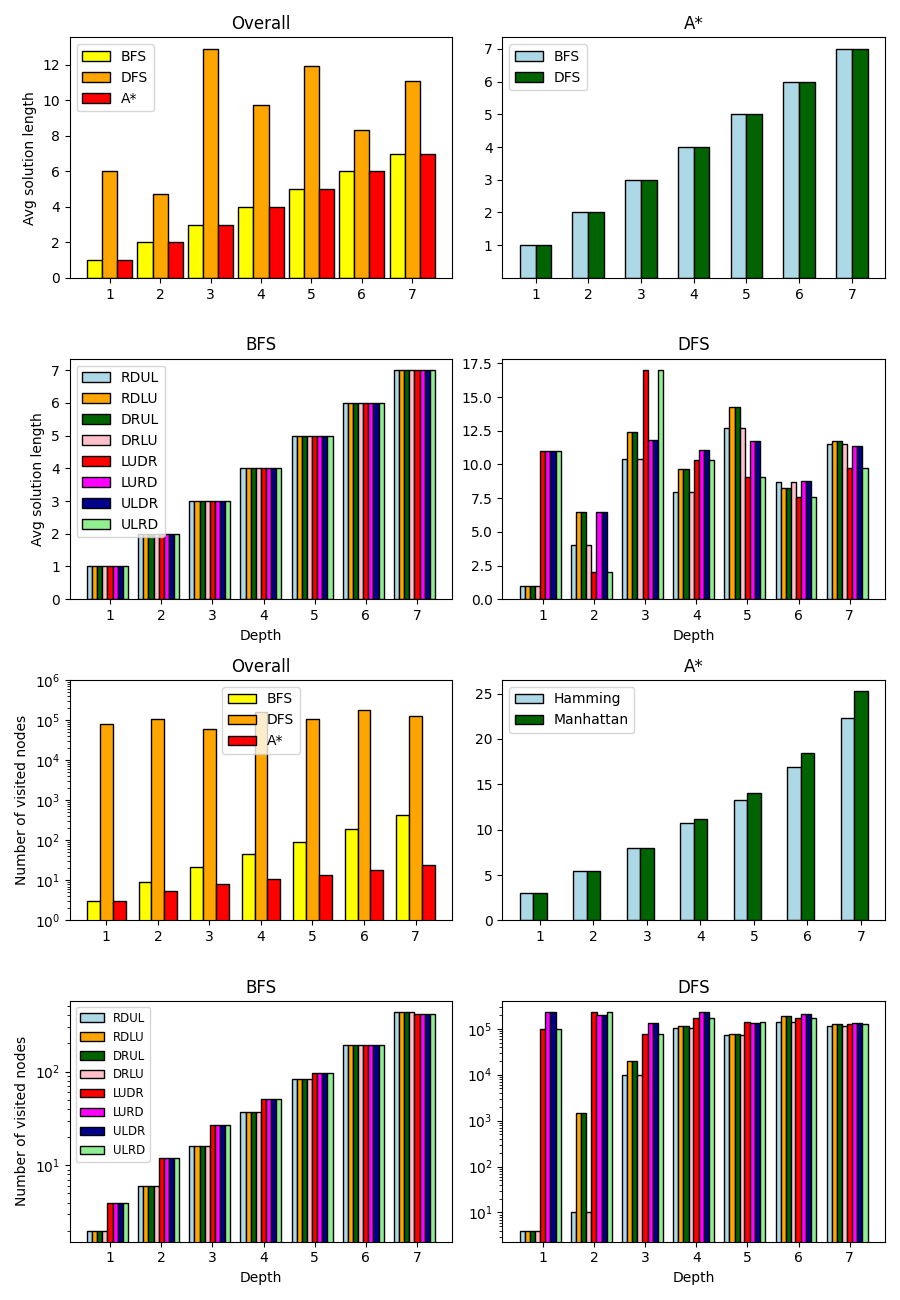
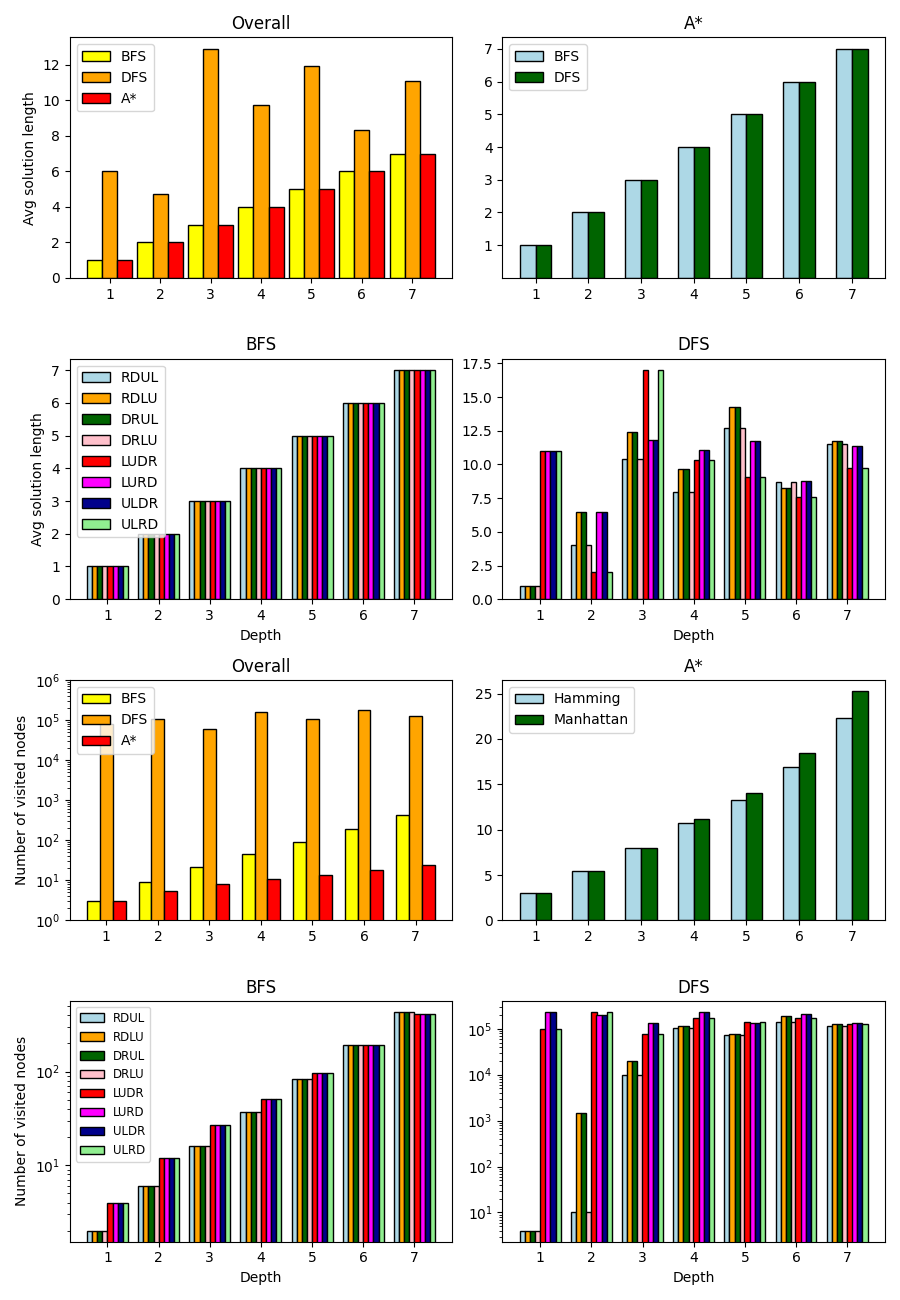
wyrownane, ostatnia strona zmniejszona

Changed region(s): [[0.5911, 0.5231, 0.9644, 0.7077], [0.2489, 0.5231, 0.3422, 0.5846], [0.0933, 0.5231, 0.1867, 0.5846]]

diff --git a/pyton wykresy/main.py b/pyton wykresy/main.py
@@ -6,7 +6,7 @@ from matplotlib import pyplot as plt
 
 
 def stats(name, *strategy):
-    folder_path = 'C:\studia\sise\sise\JAVA\stats'
+    folder_path = 'D:\\SISE\\repo\\JAVA\\stats\\'
     stats_dict = defaultdict(lambda: {'L': [], 'C': [], 'F': [], 'D': [], 'T': []})
     stan = '([a-z]{4})'
     if strategy:
@@ -51,65 +51,66 @@ ax[0, 0].set_xticks(names_axis, names)
 ax[0, 0].set_title("Overall")
 ax[0, 0].legend(["BFS", "DFS", "A*"])
 
-ax[0, 1].bar(names_axis - 0.5*width, stats('astr', 'hamm')[0], width, color='lightblue', edgecolor='black')
-ax[0, 1].bar(names_axis+ 0.5*width, stats('astr', 'manh')[0], width, color='darkgreen' , edgecolor='black')
+ax[0, 1].bar(names_axis - 0.5 * width, stats('astr', 'hamm')[0], width, color='lightblue', edgecolor='black')
+ax[0, 1].bar(names_axis + 0.5 * width, stats('astr', 'manh')[0], width, color='darkgreen' , edgecolor='black')
 ax[0, 1].set_title("A*")
 ax[0, 1].set_xticks(names_axis, names)
 ax[0, 1].set_yticks([1, 2, 3, 4, 5, 6, 7])
 ax[0, 1].legend(["BFS", "DFS", "A*"])
 
 width = 0.10
-ax[1, 0].bar(names_axis - 4 * width, stats('bfs', 'rdul')[0], width, color='lightblue', edgecolor='black')
-ax[1, 0].bar(names_axis - 3 * width, stats('bfs', 'rdlu')[0], width, color='orange', edgecolor='black')
-ax[1, 0].bar(names_axis - 2 * width, stats('bfs', 'drul')[0], width, color='darkgreen', edgecolor='black')
-ax[1, 0].bar(names_axis - width, stats('bfs', 'drlu')[0], width, color='pink', edgecolor='black')
-ax[1, 0].bar(names_axis, stats('bfs', 'ludr')[0], width, color='red', edgecolor='black')
-ax[1, 0].bar(names_axis + width, stats('bfs', 'lurd')[0], width, color='magenta', edgecolor='black')
-ax[1, 0].bar(names_axis + 2 * width, stats('bfs', 'uldr')[0], width, color='darkblue', edgecolor='black')
-ax[1, 0].bar(names_axis + 3 * width, stats('bfs', 'ulrd')[0], width, color='lightgreen', edgecolor='black')
+ax[1, 0].bar(names_axis - 3.5 * width, stats('bfs', 'rdul')[0], width, color='lightblue', edgecolor='black')
+ax[1, 0].bar(names_axis - 2.5 * width, stats('bfs', 'rdlu')[0], width, color='orange', edgecolor='black')
+ax[1, 0].bar(names_axis - 1.5 * width, stats('bfs', 'drul')[0], width, color='darkgreen', edgecolor='black')
+ax[1, 0].bar(names_axis - 0.5 * width, stats('bfs', 'drlu')[0], width, color='pink', edgecolor='black')
+ax[1, 0].bar(names_axis + 0.5 * width, stats('bfs', 'ludr')[0], width, color='red', edgecolor='black')
+ax[1, 0].bar(names_axis + 1.5 * width, stats('bfs', 'lurd')[0], width, color='magenta', edgecolor='black')
+ax[1, 0].bar(names_axis + 2.5 * width, stats('bfs', 'uldr')[0], width, color='darkblue', edgecolor='black')
+ax[1, 0].bar(names_axis + 3.5 * width, stats('bfs', 'ulrd')[0], width, color='lightgreen', edgecolor='black')
 ax[1, 0].set_ylabel("Avg solution length")
 ax[1, 0].set_xticks(names_axis, names)
 ax[1, 0].set_title("BFS")
 ax[1, 0].legend(['RDUL', 'RDLU', 'DRUL', 'DRLU', 'LUDR', 'LURD', 'ULDR', 'ULRD'])
 ax[1, 0].set_xlabel("Depth")
 
-ax[1, 1].bar(names_axis - 4 * width, stats('dfs', 'rdul')[0], width, color='lightblue', edgecolor='black')
-ax[1, 1].bar(names_axis - 3 * width, stats('dfs', 'rdlu')[0], width, color='orange', edgecolor='black')
-ax[1, 1].bar(names_axis - 2 * width, stats('dfs', 'drul')[0], width, color='darkgreen', edgecolor='black')
-ax[1, 1].bar(names_axis - width, stats('dfs', 'drlu')[0], width, color='pink', edgecolor='black')
-ax[1, 1].bar(names_axis, stats('dfs', 'ludr')[0], width, color='red', edgecolor='black')
-ax[1, 1].bar(names_axis + width, stats('dfs', 'lurd')[0], width, color='magenta', edgecolor='black')
-ax[1, 1].bar(names_axis + 2 * width, stats('dfs', 'uldr')[0], width, color='darkblue', edgecolor='black')
-ax[1, 1].bar(names_axis + 3 * width, stats('dfs', 'ulrd')[0], width, color='lightgreen', edgecolor='black')
+ax[1, 1].bar(names_axis - 3.5 * width, stats('dfs', 'rdul')[0], width, color='lightblue', edgecolor='black')
+ax[1, 1].bar(names_axis - 2.5 * width, stats('dfs', 'rdlu')[0], width, color='orange', edgecolor='black')
+ax[1, 1].bar(names_axis - 1.5 * width, stats('dfs', 'drul')[0], width, color='darkgreen', edgecolor='black')
+ax[1, 1].bar(names_axis - 0.5 * width, stats('dfs', 'drlu')[0], width, color='pink', edgecolor='black')
+ax[1, 1].bar(names_axis + 0.5 * width, stats('dfs', 'ludr')[0], width, color='red', edgecolor='black')
+ax[1, 1].bar(names_axis + 1.5 * width, stats('dfs', 'lurd')[0], width, color='magenta', edgecolor='black')
+ax[1, 1].bar(names_axis + 2.5 * width, stats('dfs', 'uldr')[0], width, color='darkblue', edgecolor='black')
+ax[1, 1].bar(names_axis + 3.5 * width, stats('dfs', 'ulrd')[0], width, color='lightgreen', edgecolor='black')
 ax[1, 1].set_xticks(names_axis, names)
 ax[1, 1].set_title("DFS")
 ax[1, 1].set_xlabel("Depth")
 
-width = 0.25
+width = 0.3
 ax[2, 0].bar(names_axis - 0.25, stats('bfs')[1], 0.25, color='yellow', log=True, edgecolor='black')
 ax[2, 0].bar(names_axis, stats('dfs')[1], 0.25, color='orange', log=True, edgecolor='black')
 ax[2, 0].bar(names_axis + 0.25, stats('astr')[1], 0.25, color='red', log=True, edgecolor='black')
 ax[2, 0].set_ylabel("Number of visited nodes")
 ax[2, 0].set_xticks(names_axis, names)
 ax[2, 0].set_title("Overall")
-ax[2, 0].legend(['BFS', 'DFS', 'A*'])
+ax[2, 0].legend(['BFS', 'DFS', 'A*'], loc="upper left")
 ax[2, 0].set_yticks([1, 10, 100, 1000, 10000, 100000, 1000000])
 
-ax[2, 1].bar(names_axis - 0.25, stats('astr', 'hamm')[1], 0.25, color='lightblue', edgecolor='black')
-ax[2, 1].bar(names_axis, stats('astr', 'manh')[1], 0.25, color='darkgreen', edgecolor='black')
+ax[2, 1].bar(names_axis - 0.5 * width, stats('astr', 'hamm')[1], width, color='lightblue', edgecolor='black')
+ax[2, 1].bar(names_axis + 0.5 * width, stats('astr', 'manh')[1], width, color='darkgreen', edgecolor='black')
 ax[2, 1].set_title("A*")
 ax[2, 1].set_xticks(names_axis, names)
 ax[2, 1].legend(['Hamming', 'Manhattan'])
 ax[2, 1].set_yticks([0, 5, 10, 15, 20, 25])
 
-ax[3, 0].bar(names_axis - 0.4, stats('bfs', 'rdul')[1], 0.1, color='lightblue', log=True, edgecolor='black')
-ax[3, 0].bar(names_axis - 0.3, stats('bfs', 'rdlu')[1], 0.1, color='orange', log=True, edgecolor='black')
-ax[3, 0].bar(names_axis - 0.2, stats('bfs', 'drul')[1], 0.1, color='darkgreen', log=True, edgecolor='black')
-ax[3, 0].bar(names_axis - 0.1, stats('bfs', 'drlu')[1], 0.1, color='pink', log=True, edgecolor='black')
-ax[3, 0].bar(names_axis, stats('bfs', 'ludr')[1], 0.1, color='red', log=True, edgecolor='black')
-ax[3, 0].bar(names_axis + 0.1, stats('bfs', 'lurd')[1], 0.1, color='magenta', log=True, edgecolor='black')
-ax[3, 0].bar(names_axis + 0.2, stats('bfs', 'uldr')[1], 0.1, color='darkblue', log=True, edgecolor='black')
-ax[3, 0].bar(names_axis + 0.3, stats('bfs', 'ulrd')[1], 0.1, color='lightgreen', log=True, edgecolor='black')
+width = 0.1
+ax[3, 0].bar(names_axis - 3.5 * width, stats('bfs', 'rdul')[1], 0.1, color='lightblue', log=True, edgecolor='black')
+ax[3, 0].bar(names_axis - 2.5 * width, stats('bfs', 'rdlu')[1], 0.1, color='orange', log=True, edgecolor='black')
+ax[3, 0].bar(names_axis - 1.5 * width, stats('bfs', 'drul')[1], 0.1, color='darkgreen', log=True, edgecolor='black')
+ax[3, 0].bar(names_axis - 0.5 * width, stats('bfs', 'drlu')[1], 0.1, color='pink', log=True, edgecolor='black')
+ax[3, 0].bar(names_axis + 0.5 * width, stats('bfs', 'ludr')[1], 0.1, color='red', log=True, edgecolor='black')
+ax[3, 0].bar(names_axis + 1.5 * width, stats('bfs', 'lurd')[1], 0.1, color='magenta', log=True, edgecolor='black')
+ax[3, 0].bar(names_axis + 2.5 * width, stats('bfs', 'uldr')[1], 0.1, color='darkblue', log=True, edgecolor='black')
+ax[3, 0].bar(names_axis + 3.5 * width, stats('bfs', 'ulrd')[1], 0.1, color='lightgreen', log=True, edgecolor='black')
 ax[3, 0].set_ylabel("Number of visited nodes")
 ax[3, 0].set_xticks(names_axis, names)
 # ax[3, 0].set_yticks([1, 10, 100, 1000])
@@ -117,14 +118,14 @@ ax[3, 0].set_title("BFS")
 ax[3, 0].legend(['RDUL', 'RDLU', 'DRUL', 'DRLU', 'LUDR', 'LURD', 'ULDR', 'ULRD'], prop={'size': 8.5})
 ax[3, 0].set_xlabel("Depth")
 
-ax[3, 1].bar(names_axis - 0.4, stats('dfs', 'rdul')[1], 0.1, color='lightblue', log=True, edgecolor='black')
-ax[3, 1].bar(names_axis - 0.3, stats('dfs', 'rdlu')[1], 0.1, color='orange', log=True, edgecolor='black')
-ax[3, 1].bar(names_axis - 0.2, stats('dfs', 'drul')[1], 0.1, color='darkgreen', log=True, edgecolor='black')
-ax[3, 1].bar(names_axis - 0.1, stats('dfs', 'drlu')[1], 0.1, color='pink', log=True, edgecolor='black')
-ax[3, 1].bar(names_axis, stats('dfs', 'ludr')[1], 0.12, color='red', log=True, edgecolor='black')
-ax[3, 1].bar(names_axis + 0.1, stats('dfs', 'lurd')[1], 0.1, color='magenta', log=True, edgecolor='black')
-ax[3, 1].bar(names_axis + 0.2, stats('dfs', 'uldr')[1], 0.1, color='darkblue', log=True, edgecolor='black')
-ax[3, 1].bar(names_axis + 0.3, stats('dfs', 'ulrd')[1], 0.1, color='lightgreen', log=True, edgecolor='black')
+ax[3, 1].bar(names_axis - 3.5 * width, stats('dfs', 'rdul')[1], 0.1, color='lightblue', log=True, edgecolor='black')
+ax[3, 1].bar(names_axis - 2.5 * width, stats('dfs', 'rdlu')[1], 0.1, color='orange', log=True, edgecolor='black')
+ax[3, 1].bar(names_axis - 1.5 * width, stats('dfs', 'drul')[1], 0.1, color='darkgreen', log=True, edgecolor='black')
+ax[3, 1].bar(names_axis - 0.5 * width, stats('dfs', 'drlu')[1], 0.1, color='pink', log=True, edgecolor='black')
+ax[3, 1].bar(names_axis + 0.5 * width, stats('dfs', 'ludr')[1], 0.12, color='red', log=True, edgecolor='black')
+ax[3, 1].bar(names_axis + 1.5 * width, stats('dfs', 'lurd')[1], 0.1, color='magenta', log=True, edgecolor='black')
+ax[3, 1].bar(names_axis + 2.5 * width, stats('dfs', 'uldr')[1], 0.1, color='darkblue', log=True, edgecolor='black')
+ax[3, 1].bar(names_axis + 3.5 * width, stats('dfs', 'ulrd')[1], 0.1, color='lightgreen', log=True, edgecolor='black')
 ax[3, 1].set_xticks(names_axis, names)
 # ax[3, 1].set_yticks([1, 10, 100, 1000, 10000, 100000, 1000000])
 ax[3, 1].set_title("DFS")
@@ -140,24 +141,25 @@ ax1[0, 0].bar(names_axis + 0.2, stats('astr')[2], 0.2, color='red', log=True, ed
 ax1[0, 0].set_ylabel("Number of processed nodes")
 ax1[0, 0].set_xticks(names_axis, names)
 ax1[0, 0].set_title("Overall")
-ax1[0, 0].legend(['BFS', 'DFS', 'A*'])
+ax1[0, 0].legend(['BFS', 'DFS', 'A*'], loc="upper left")
 # ax1[0, 0].set_yticks([1, 10, 100, 1000, 10000, 100000, 1000000])
-width = 0.2
-ax1[0, 1].bar(names_axis - 0.5*width, stats('astr', 'hamm')[2], 0.2, color='lightblue', edgecolor='black')
-ax1[0, 1].bar(names_axis+ 0.5*width, stats('astr', 'manh')[0], 0.2, color='darkgreen', edgecolor='black')
+width = 0.3
+ax1[0, 1].bar(names_axis - 0.5*width, stats('astr', 'hamm')[2], width, color='lightblue', edgecolor='black')
+ax1[0, 1].bar(names_axis+ 0.5*width, stats('astr', 'manh')[0], width, color='darkgreen', edgecolor='black')
 ax1[0, 1].set_title("A*")
 ax1[0, 1].set_xticks(names_axis, names)
 ax1[0, 1].legend(['Hamming', 'Manhattan'])
 ax1[0, 1].set_yticks([0, 2, 4, 6, 8, 10])
 
-ax1[1, 0].bar(names_axis - 0.4, stats('bfs', 'rdul')[2], 0.1, color='lightblue', log=True, edgecolor='black')
-ax1[1, 0].bar(names_axis - 0.3, stats('bfs', 'rdlu')[2], 0.1, color='orange', log=True, edgecolor='black')
-ax1[1, 0].bar(names_axis - 0.2, stats('bfs', 'drul')[2], 0.1, color='darkgreen', log=True, edgecolor='black')
-ax1[1, 0].bar(names_axis - 0.1, stats('bfs', 'drlu')[2], 0.1, color='pink', log=True, edgecolor='black')
-ax1[1, 0].bar(names_axis, stats('bfs', 'ludr')[2], 0.12,      color='red', log=True, edgecolor='black')
-ax1[1, 0].bar(names_axis + 0.1, stats('bfs', 'lurd')[2], 0.1, color='magenta', log=True, edgecolor='black')
-ax1[1, 0].bar(names_axis + 0.2, stats('bfs', 'uldr')[2], 0.1, color='darkblue', log=True, edgecolor='black')
-ax1[1, 0].bar(names_axis + 0.3, stats('bfs', 'ulrd')[2], 0.1, color='lightgreen', log=True, edgecolor='black')
+width = 0.1
+ax1[1, 0].bar(names_axis - 3.5 * width, stats('bfs', 'rdul')[2], width, color='lightblue', log=True, edgecolor='black')
+ax1[1, 0].bar(names_axis - 2.5 * width, stats('bfs', 'rdlu')[2], width, color='orange', log=True, edgecolor='black')
+ax1[1, 0].bar(names_axis - 1.5 * width, stats('bfs', 'drul')[2], width, color='darkgreen', log=True, edgecolor='black')
+ax1[1, 0].bar(names_axis - 0.5 * width, stats('bfs', 'drlu')[2], width, color='pink', log=True, edgecolor='black')
+ax1[1, 0].bar(names_axis + 0.5 * width, stats('bfs', 'ludr')[2], width,      color='red', log=True, edgecolor='black')
+ax1[1, 0].bar(names_axis + 1.5 * width, stats('bfs', 'lurd')[2], width, color='magenta', log=True, edgecolor='black')
+ax1[1, 0].bar(names_axis + 2.5 * width, stats('bfs', 'uldr')[2], width, color='darkblue', log=True, edgecolor='black')
+ax1[1, 0].bar(names_axis + 3.5 * width, stats('bfs', 'ulrd')[2], width, color='lightgreen', log=True, edgecolor='black')
 ax1[1, 0].set_ylabel("Number of processed nodes")
 ax1[1, 0].set_xticks(names_axis, names)
 # ax1[1, 0].set_yticks([1, 10, 100, 1000])
@@ -165,14 +167,14 @@ ax1[1, 0].set_title("BFS")
 ax1[1, 0].legend(['RDUL', 'RDLU', 'DRUL', 'DRLU', 'LUDR', 'LURD', 'ULDR', 'ULRD'], prop={'size': 8.5})
 ax1[1, 0].set_xlabel("Depth")
 
-ax1[1, 1].bar(names_axis - 0.4, stats('dfs', 'rdul')[2], 0.1, color='lightblue', log=True, edgecolor='black')
-ax1[1, 1].bar(names_axis - 0.3, stats('dfs', 'rdlu')[2], 0.1, color='orange',  log=True, edgecolor='black')
-ax1[1, 1].bar(names_axis - 0.2, stats('dfs', 'drul')[2], 0.1, color='darkgreen', log=True, edgecolor='black')
-ax1[1, 1].bar(names_axis - 0.1, stats('dfs', 'drlu')[2], 0.1, color='pink', log=True, edgecolor='black')
-ax1[1, 1].bar(names_axis, stats('dfs', 'ludr')[2], 0.1,       color='red', log=True, edgecolor='black')
-ax1[1, 1].bar(names_axis + 0.1, stats('dfs', 'lurd')[2], 0.1, color='magenta',  log=True, edgecolor='black')
-ax1[1, 1].bar(names_axis + 0.2, stats('dfs', 'uldr')[2], 0.1, color='darkblue',  log=True, edgecolor='black')
-ax1[1, 1].bar(names_axis + 0.3, stats('dfs', 'ulrd')[2], 0.1, color='lightgreen' ,log=True, edgecolor='black')
+ax1[1, 1].bar(names_axis - 3.5 * width, stats('dfs', 'rdul')[2], width, color='lightblue', log=True, edgecolor='black')
+ax1[1, 1].bar(names_axis - 2.5 * width, stats('dfs', 'rdlu')[2], width, color='orange',  log=True, edgecolor='black')
+ax1[1, 1].bar(names_axis - 1.5 * width, stats('dfs', 'drul')[2], width, color='darkgreen', log=True, edgecolor='black')
+ax1[1, 1].bar(names_axis - 0.5 * width, stats('dfs', 'drlu')[2], width, color='pink', log=True, edgecolor='black')
+ax1[1, 1].bar(names_axis + 0.5 * width, stats('dfs', 'ludr')[2], width,       color='red', log=True, edgecolor='black')
+ax1[1, 1].bar(names_axis + 1.5 * width, stats('dfs', 'lurd')[2], width, color='magenta',  log=True, edgecolor='black')
+ax1[1, 1].bar(names_axis + 2.5 * width, stats('dfs', 'uldr')[2], width, color='darkblue',  log=True, edgecolor='black')
+ax1[1, 1].bar(names_axis + 3.5 * width, stats('dfs', 'ulrd')[2], width, color='lightgreen' ,log=True, edgecolor='black')
 ax1[1, 1].set_xticks(names_axis, names)
 ax1[1, 1].set_title("DFS")
 ax1[1, 1].set_xlabel("Depth")
@@ -181,47 +183,50 @@ ax1[1, 1].set_xlabel("Depth")
 ax1[2, 0].bar(names_axis - 0.2, stats('bfs')[3], 0.2, color='yellow', edgecolor='black')
 ax1[2, 0].bar(names_axis, stats('dfs')[3], 0.2, color='orange', edgecolor='black')
 ax1[2, 0].bar(names_axis + 0.2, stats('astr')[3], 0.2, color='red', edgecolor='black')
-ax1[2, 0].set_ylabel("Max recurency depth")
+ax1[2, 0].set_ylabel("Max recursion depth")
 ax1[2, 0].set_xticks(names_axis, names)
 ax1[2, 0].set_title("Overall")
 ax1[2, 0].legend(['BFS', 'DFS', 'A*'])
 ax1[2, 0].set_yticks([0, 5, 10, 15, 20])
 
-ax1[2, 1].bar(names_axis - 0.2, stats('astr', 'hamm')[3], 0.2, color='lightblue', edgecolor='black')
-ax1[2, 1].bar(names_axis, stats('astr', 'manh')[3], 0.2, color='darkgreen', edgecolor='black')
+width = 0.25
+ax1[2, 1].bar(names_axis - 0.5*width, stats('astr', 'hamm')[3], width, color='lightblue', edgecolor='black')
+ax1[2, 1].bar(names_axis + 0.5*width, stats('astr', 'manh')[3], width, color='darkgreen', edgecolor='black')
 ax1[2, 1].set_title("A*")
 ax1[2, 1].set_xticks(names_axis, names)
 ax1[2, 1].legend(['Hamming', 'Manhattan'])
 
-ax1[3, 0].bar(names_axis - 0.4, stats('bfs', 'rdul')[3], 0.1, color='lightblue',  edgecolor='black')
-ax1[3, 0].bar(names_axis - 0.3, stats('bfs', 'rdlu')[3], 0.1, color='orange', edgecolor='black')
-ax1[3, 0].bar(names_axis - 0.2, stats('bfs', 'drul')[3], 0.1, color='darkgreen', edgecolor='black')
-ax1[3, 0].bar(names_axis - 0.1, stats('bfs', 'drlu')[3], 0.1, color='pink', edgecolor='black')
-ax1[3, 0].bar(names_axis, stats('bfs', 'ludr')[3], 0.12,      color='red',  edgecolor='black')
-ax1[3, 0].bar(names_axis + 0.1, stats('bfs', 'lurd')[3], 0.1, color='magenta' , edgecolor='black')
-ax1[3, 0].bar(names_axis + 0.2, stats('bfs', 'uldr')[3], 0.1, color='darkblue',  edgecolor='black')
-ax1[3, 0].bar(names_axis + 0.3, stats('bfs', 'ulrd')[3], 0.1, color='lightgreen', edgecolor='black')
-ax1[3, 0].set_ylabel("Max recurency depth")
+width = 0.1
+ax1[3, 0].bar(names_axis - 3.5 * width, stats('bfs', 'rdul')[3], width, color='lightblue',  edgecolor='black')
+ax1[3, 0].bar(names_axis - 2.5 * width, stats('bfs', 'rdlu')[3], width, color='orange', edgecolor='black')
+ax1[3, 0].bar(names_axis - 1.5 * width, stats('bfs', 'drul')[3], width, color='darkgreen', edgecolor='black')
+ax1[3, 0].bar(names_axis - 0.5 * width, stats('bfs', 'drlu')[3], width, color='pink', edgecolor='black')
+ax1[3, 0].bar(names_axis + 0.5 * width, stats('bfs', 'ludr')[3], width,      color='red',  edgecolor='black')
+ax1[3, 0].bar(names_axis + 1.5 * width, stats('bfs', 'lurd')[3], width, color='magenta' , edgecolor='black')
+ax1[3, 0].bar(names_axis + 2.5 * width, stats('bfs', 'uldr')[3], width, color='darkblue',  edgecolor='black')
+ax1[3, 0].bar(names_axis + 3.5 * width, stats('bfs', 'ulrd')[3], width, color='lightgreen', edgecolor='black')
+ax1[3, 0].set_ylabel("Max recursion depth")
 ax1[3, 0].set_xticks(names_axis, names)
 ax1[3, 0].set_title("BFS")
 ax1[3, 0].legend(['RDUL', 'RDLU', 'DRUL', 'DRLU', 'LUDR', 'LURD', 'ULDR', 'ULRD'], prop={'size': 8.5})
 ax1[3, 0].set_xlabel("Depth")
 
-ax1[3, 1].bar(names_axis - 0.4, stats('dfs', 'rdul')[3], 0.1, color='lightblue', edgecolor='black')
-ax1[3, 1].bar(names_axis - 0.3, stats('dfs', 'rdlu')[3], 0.1, color='orange',  edgecolor='black')
-ax1[3, 1].bar(names_axis - 0.2, stats('dfs', 'drul')[3], 0.1, color='darkgreen',  edgecolor='black')
-ax1[3, 1].bar(names_axis - 0.1, stats('dfs', 'drlu')[3], 0.1, color='pink', edgecolor='black')
-ax1[3, 1].bar(names_axis, stats('dfs', 'ludr')[3], 0.1,       color='red', edgecolor='black')
-ax1[3, 1].bar(names_axis + 0.1, stats('dfs', 'lurd')[3], 0.1, color='magenta' ,  edgecolor='black')
-ax1[3, 1].bar(names_axis + 0.2, stats('dfs', 'uldr')[3], 0.1, color='darkblue',  edgecolor='black')
-ax1[3, 1].bar(names_axis + 0.3, stats('dfs', 'ulrd')[3], 0.1, color='lightgreen',edgecolor='black')
+ax1[3, 1].bar(names_axis - 3.5 * width, stats('dfs', 'rdul')[3], width, color='lightblue', edgecolor='black')
+ax1[3, 1].bar(names_axis - 2.5 * width, stats('dfs', 'rdlu')[3], width, color='orange',  edgecolor='black')
+ax1[3, 1].bar(names_axis - 1.5 * width, stats('dfs', 'drul')[3], width, color='darkgreen',  edgecolor='black')
+ax1[3, 1].bar(names_axis - 0.5 * width, stats('dfs', 'drlu')[3], width, color='pink', edgecolor='black')
+ax1[3, 1].bar(names_axis + 0.5 * width, stats('dfs', 'ludr')[3], width,       color='red', edgecolor='black')
+ax1[3, 1].bar(names_axis + 1.5 * width, stats('dfs', 'lurd')[3], width, color='magenta' ,  edgecolor='black')
+ax1[3, 1].bar(names_axis + 2.5 * width, stats('dfs', 'uldr')[3], width, color='darkblue',  edgecolor='black')
+ax1[3, 1].bar(names_axis + 3.5 * width, stats('dfs', 'ulrd')[3], width, color='lightgreen',edgecolor='black')
 ax1[3, 1].set_xticks(names_axis, names)
 ax1[3, 1].set_title("DFS")
 ax1[3, 1].set_xlabel("Depth")
 plt.savefig('wykresy1.png')
 plt.clf()
 
-fig2, ax2 = plt.subplots(4, 2, tight_layout=True)
+plt.rcParams["figure.figsize"] = [9, 6.5]
+fig2, ax2 = plt.subplots(2, 2, tight_layout=True)
 ax2[0, 0].bar(names_axis - 0.2, stats('bfs')[4], 0.2, color='yellow', log=True, edgecolor='black')
 ax2[0, 0].bar(names_axis, stats('dfs')[4], 0.2, color='orange', log=True, edgecolor='black')
 ax2[0, 0].bar(names_axis + 0.2, stats('astr')[4], 0.2, color='red', log=True, edgecolor='black')
@@ -229,24 +234,25 @@ ax2[0, 0].set_ylabel("Runtime")
 ax2[0, 0].set_xticks(names_axis, names)
 # ax2[0, 0].set_yticks([0.01, 0.1, 1, 10, 100])
 ax2[0, 0].set_title("Overall")
-ax2[0, 0].legend(['BFS', 'DFS', 'A*'])
+ax2[0, 0].legend(['BFS', 'DFS', 'A*'], loc="upper right")
 
-width = 0.2
-ax2[0, 1].bar(names_axis - 0.5*width, stats('astr', 'hamm')[4], 0.2, color='lightblue', edgecolor='black')
-ax2[0, 1].bar(names_axis+ 0.5*width, stats('astr', 'manh')[4], 0.2, color='darkgreen', edgecolor='black')
+width = 0.3
+ax2[0, 1].bar(names_axis - 0.5*width, stats('astr', 'hamm')[4], width, color='lightblue', edgecolor='black')
+ax2[0, 1].bar(names_axis + 0.5*width, stats('astr', 'manh')[4], width, color='darkgreen', edgecolor='black')
 ax2[0, 1].set_title("A*")
 ax2[0, 1].set_xticks(names_axis, names)
 # ax2[0, 1].set_yticks([0, 0.02, 0.04, 0.06, 0.08, 0.1])
 ax2[0, 1].legend(['Hamming', 'Manhattan'])
 
-ax2[1, 0].bar(names_axis - 0.4, stats('bfs', 'rdul')[4], 0.1, color='lightblue',  edgecolor='black')
-ax2[1, 0].bar(names_axis - 0.3, stats('bfs', 'rdlu')[4], 0.1, color='orange', edgecolor='black')
-ax2[1, 0].bar(names_axis - 0.2, stats('bfs', 'drul')[4], 0.1, color='darkgreen',  edgecolor='black')
-ax2[1, 0].bar(names_axis - 0.1, stats('bfs', 'drlu')[4], 0.1, color='pink', edgecolor='black')
-ax2[1, 0].bar(names_axis, stats('bfs', 'ludr')[4], 0.12,      color='red', edgecolor='black')
-ax2[1, 0].bar(names_axis + 0.1, stats('bfs', 'lurd')[4], 0.1, color='magenta' ,  edgecolor='black')
-ax2[1, 0].bar(names_axis + 0.2, stats('bfs', 'uldr')[4], 0.1, color='darkblue',   edgecolor='black')
-ax2[1, 0].bar(names_axis + 0.3, stats('bfs', 'ulrd')[4], 0.1, color='lightgreen', edgecolor='black')
+width = 0.1
+ax2[1, 0].bar(names_axis - 3.5 * width, stats('bfs', 'rdul')[4], width, color='lightblue',  edgecolor='black')
+ax2[1, 0].bar(names_axis - 2.5 * width, stats('bfs', 'rdlu')[4], width, color='orange', edgecolor='black')
+ax2[1, 0].bar(names_axis - 1.5 * width, stats('bfs', 'drul')[4], width, color='darkgreen',  edgecolor='black')
+ax2[1, 0].bar(names_axis - 0.5 * width, stats('bfs', 'drlu')[4], width, color='pink', edgecolor='black')
+ax2[1, 0].bar(names_axis + 0.5 * width, stats('bfs', 'ludr')[4], width,      color='red', edgecolor='black')
+ax2[1, 0].bar(names_axis + 1.5 * width, stats('bfs', 'lurd')[4], width, color='magenta' ,  edgecolor='black')
+ax2[1, 0].bar(names_axis + 2.5 * width, stats('bfs', 'uldr')[4], width, color='darkblue',   edgecolor='black')
+ax2[1, 0].bar(names_axis + 3.5 * width, stats('bfs', 'ulrd')[4], width, color='lightgreen', edgecolor='black')
 ax2[1, 0].set_ylabel("Runtime")
 ax2[1, 0].set_xticks(names_axis, names)
 ax2[1, 0].set_title("BFS")
@@ -254,14 +260,14 @@ ax2[1, 0].legend(['RDUL', 'RDLU', 'DRUL', 'DRLU', 'LUDR', 'LURD', 'ULDR', 'ULRD'
 ax2[1, 0].set_xlabel("Depth")
 # ax2[1, 0].set_yticks([0, 0.05, 0.1, 0.15, 0.2, 0.25])
 
-ax2[1, 1].bar(names_axis - 0.4, stats('dfs', 'rdul')[4], 0.1, color='lightblue', log=True, edgecolor='black')
-ax2[1, 1].bar(names_axis - 0.3, stats('dfs', 'rdlu')[4], 0.1, color='orange', log=True, edgecolor='black')
-ax2[1, 1].bar(names_axis - 0.2, stats('dfs', 'drul')[4], 0.1, color='darkgreen', log=True, edgecolor='black')
-ax2[1, 1].bar(names_axis - 0.1, stats('dfs', 'drlu')[4], 0.1, color='pink', log=True, edgecolor='black')
-ax2[1, 1].bar(names_axis, stats('dfs', 'ludr')[4], 0.12,      color='red', log=True, edgecolor='black')
-ax2[1, 1].bar(names_axis + 0.1, stats('dfs', 'lurd')[4], 0.1, color='magenta', log=True, edgecolor='black')
-ax2[1, 1].bar(names_axis + 0.2, stats('dfs', 'uldr')[4], 0.1, color='darkblue', log=True, edgecolor='black')
-ax2[1, 1].bar(names_axis + 0.3, stats('dfs', 'ulrd')[4], 0.1, color='lightgreen', log=True, edgecolor='black')
+ax2[1, 1].bar(names_axis - 3.5 * width, stats('dfs', 'rdul')[4], width, color='lightblue', log=True, edgecolor='black')
+ax2[1, 1].bar(names_axis - 2.5 * width, stats('dfs', 'rdlu')[4], width, color='orange', log=True, edgecolor='black')
+ax2[1, 1].bar(names_axis - 1.5 * width, stats('dfs', 'drul')[4], width, color='darkgreen', log=True, edgecolor='black')
+ax2[1, 1].bar(names_axis - 0.5 * width, stats('dfs', 'drlu')[4], width, color='pink', log=True, edgecolor='black')
+ax2[1, 1].bar(names_axis + 0.5 * width, stats('dfs', 'ludr')[4], width,      color='red', log=True, edgecolor='black')
+ax2[1, 1].bar(names_axis + 1.5 * width, stats('dfs', 'lurd')[4], width, color='magenta', log=True, edgecolor='black')
+ax2[1, 1].bar(names_axis + 2.5 * width, stats('dfs', 'uldr')[4], width, color='darkblue', log=True, edgecolor='black')
+ax2[1, 1].bar(names_axis + 3.5 * width, stats('dfs', 'ulrd')[4], width, color='lightgreen', log=True, edgecolor='black')
 ax2[1, 1].set_xticks(names_axis, names)
 ax2[1, 1].set_title("DFS")
 ax2[1, 1].set_xlabel("Depth")
